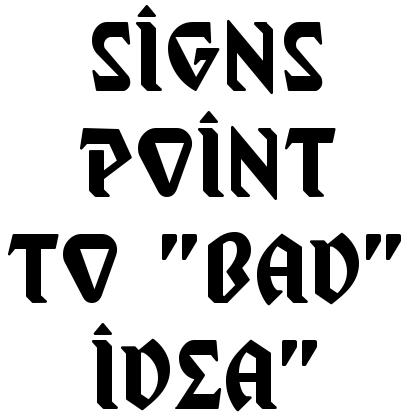
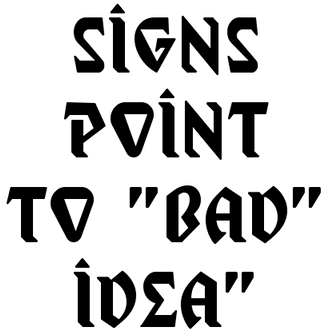
More mobile-size headers

diff --git a/sound-o-mat/mfs.html b/sound-o-mat/mfs.html
@@ -87,7 +87,7 @@
         <div class="mbr-white col-md-10">
           <h2 class="mbr-section-title mbr-bold pb-3 mbr-fonts-style display-2">
 	    <img class="web" src="assets/images/titles/signs-point-to.png" alt="The Sound-O-Mat: MFS History" title="The Sound-O-Mat: MFS History">
-	    <img class="mobile" src="assets/images/titles/music-for-seances-sm.png" alt="The Sound-O-Mat: MFS History" title="The Sound-O-Mat: MFS History">
+	    <img class="mobile" src="assets/images/titles/signs-point-to-sm.png" alt="The Sound-O-Mat: MFS History" title="The Sound-O-Mat: MFS History">
 	  </h2>
           <p class="mbr-text pb-3 mbr-fonts-style display-7">Of all the releases on my tiny label, I'm most proud of this series, despite the high cost in time, money and effort. It was a crazy idea that I didn't think possible, but with Clark's boundless enthusiasm and support, we made it happen.<br><br>
 	    I came across the <a href="https://https://www.artomat.org/">Art*O*Mat</a> while surfing the 'net researching various <i>things</i>-O-Mat history and immediately wanted to be involved in his brilliant project. I joined his repotoire of &quot;Artists in Cellophane&quot;, purchased the basic materials, and set about doing runs of pieces based on old stamps, currency and finally maps.<br><br>
